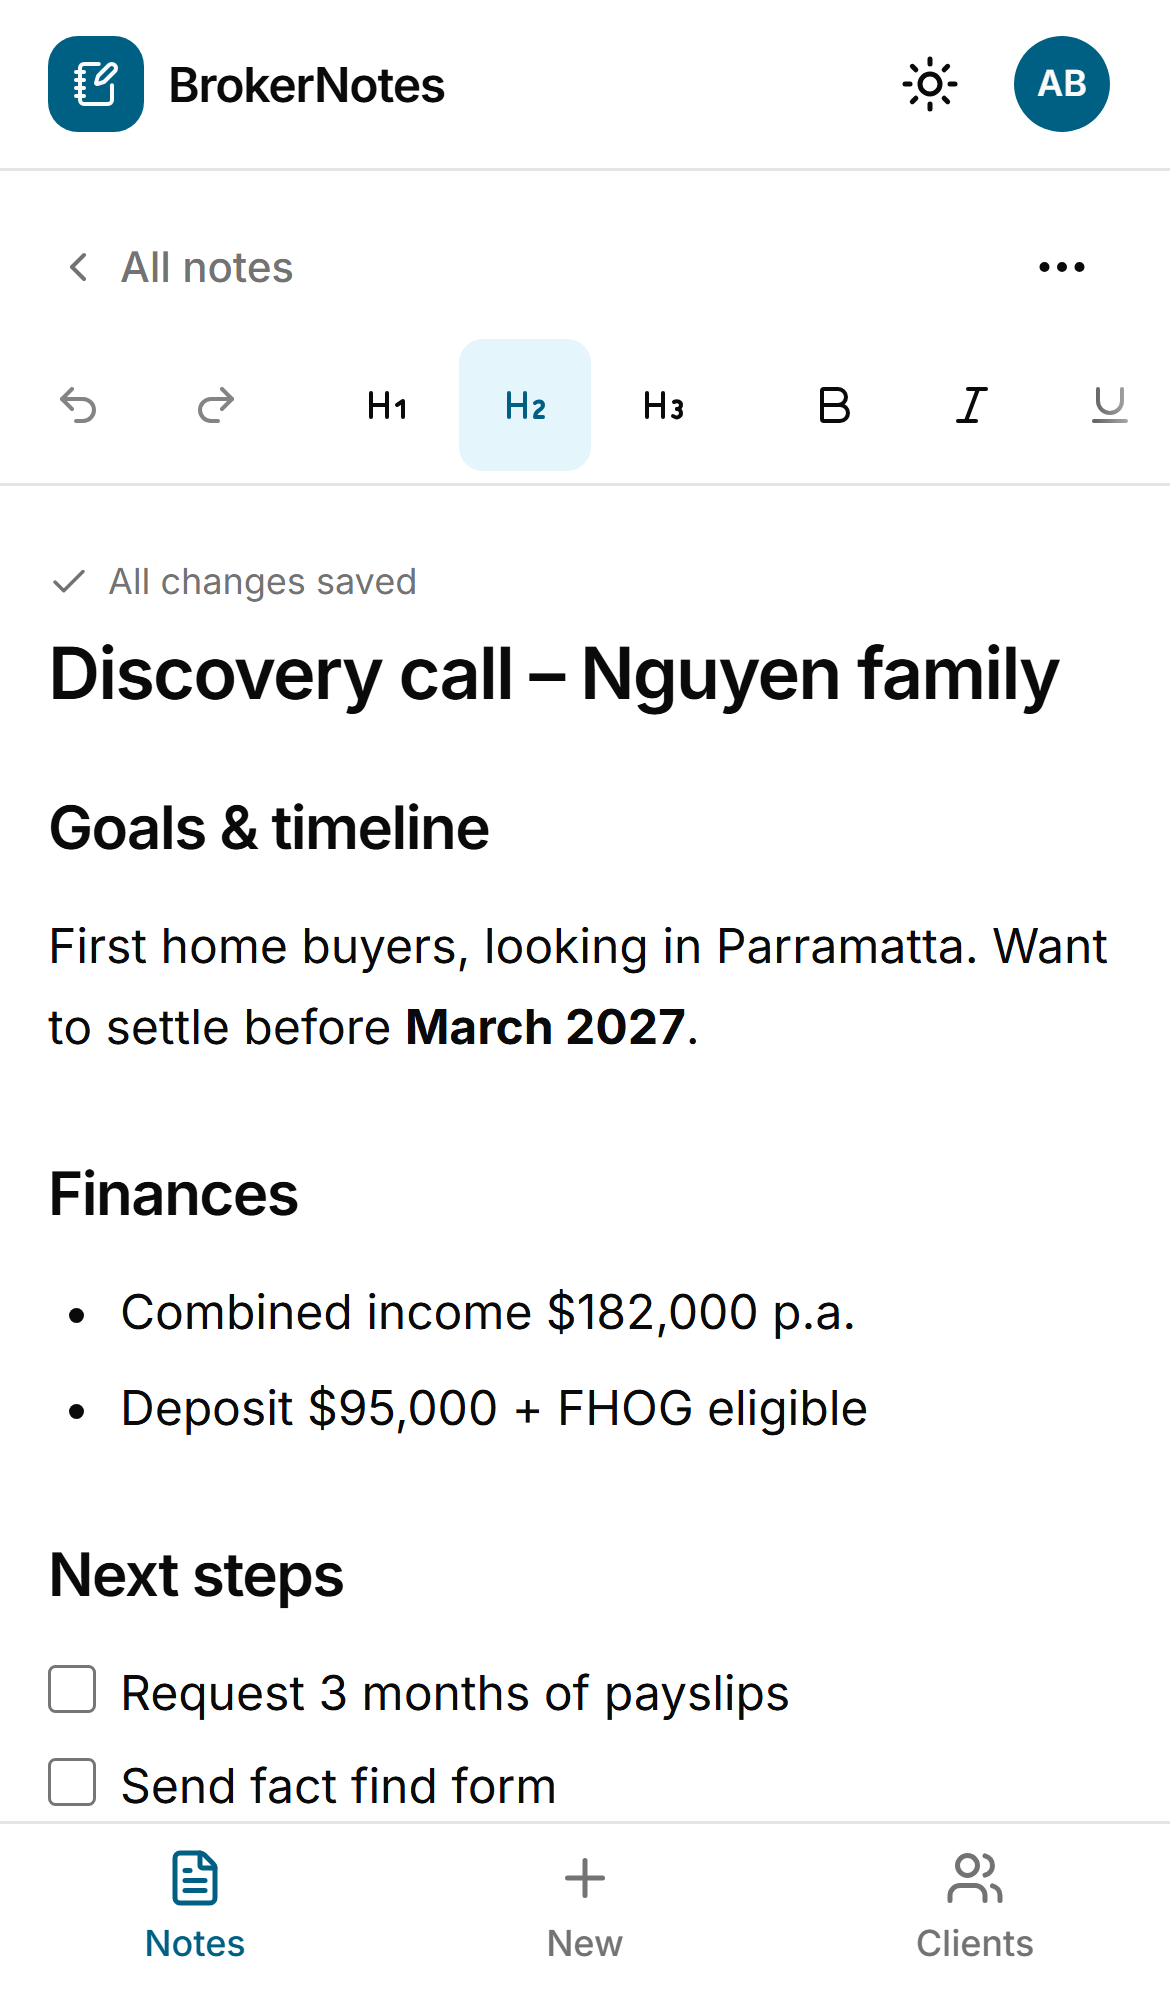
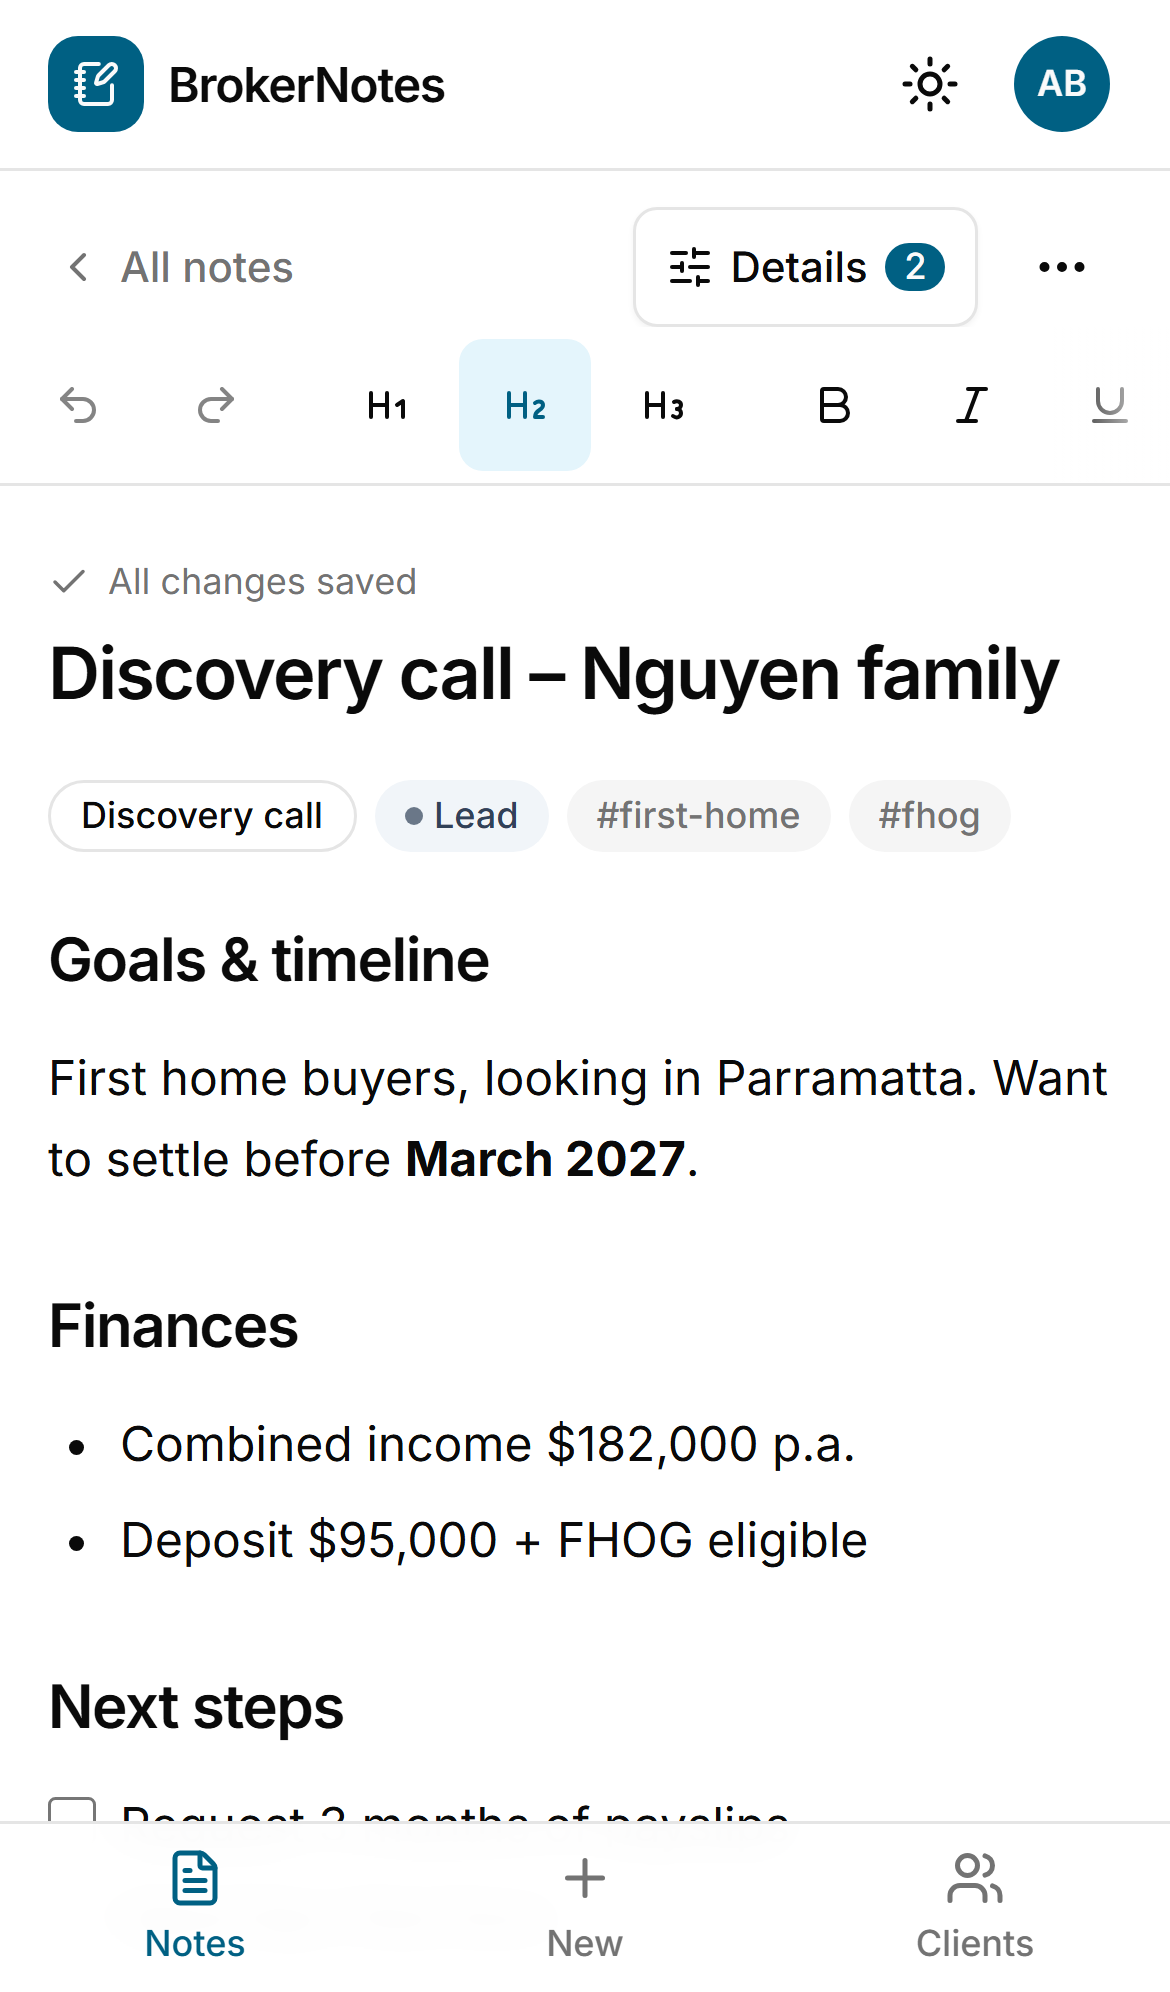
docs: Phase 3 screenshots (seeded demo pipeline) and scratchpad update

diff --git a/scripts/screenshots.ts b/scripts/screenshots.ts
@@ -4,7 +4,9 @@
  * Creates a throwaway demo account (removed at the end).
  */
 import { chromium, devices, type Page } from "@playwright/test";
-import { PrismaClient } from "@prisma/client";
+import { PrismaClient, type LoanStage, type NoteType } from "@prisma/client";
+
+import { zonedMidnight, zonedYmd } from "../lib/dates";
 
 const BASE = process.env.BASE_URL ?? "http://localhost:3100";
 const OUT = process.argv[2] ?? "docs/screenshots";
@@ -42,6 +44,83 @@ async function fillDemoNote(page: Page) {
     .waitFor({ timeout: 20_000 });
 }
 
+/** Realistic demo notes with details, so list/filter screenshots look like a real pipeline. */
+async function seedDemoNotes(email: string) {
+  const db = new PrismaClient();
+  const user = await db.user.findUniqueOrThrow({ where: { email } });
+  const today = zonedYmd(new Date());
+  const day = (offset: number) => zonedMidnight({ ...today, day: today.day + offset });
+  const notes: {
+    title: string;
+    text: string;
+    type: NoteType;
+    stage: LoanStage | null;
+    tags: string[];
+    followUp?: Date;
+    pinned?: boolean;
+  }[] = [
+    {
+      title: "Patel – conditions tracker",
+      text: "Valuation ordered with ANZ. Outstanding: payslips, rental ledger, signed contract of sale.",
+      type: "CONDITIONS",
+      stage: "CONDITIONAL",
+      tags: ["anz", "investor"],
+      followUp: day(0),
+      pinned: true,
+    },
+    {
+      title: "Smith – refinance review",
+      text: "Current Westpac rate 6.49%. Comparing CBA offset package and Macquarie basic variable.",
+      type: "REVIEW",
+      stage: "REVIEW",
+      tags: ["refinance"],
+      followUp: day(-2),
+    },
+    {
+      title: "Chen – lender rationale",
+      text: "Recommended NAB: lowest comparison rate for 85% LVR without LMI waiver alternatives.",
+      type: "LENDER_RATIONALE",
+      stage: "APPLICATION",
+      tags: ["best-interests"],
+      followUp: day(5),
+    },
+    {
+      title: "O’Brien – settlement",
+      text: "Settled 14 Nov. Client briefed on repayments and offset account. Annual review booked.",
+      type: "SETTLEMENT",
+      stage: "SETTLED",
+      tags: ["first-home"],
+    },
+    {
+      title: "Kaur – fact find",
+      text: "Two applicants, PAYG and sole trader. HECS debts, one car loan. Target purchase $1.1m.",
+      type: "FACT_FIND",
+      stage: "PRE_APPROVAL",
+      tags: ["self-employed"],
+    },
+  ];
+  for (const [i, n] of notes.entries()) {
+    await db.note.create({
+      data: {
+        userId: user.id,
+        title: n.title,
+        contentText: n.text,
+        contentJson: {
+          type: "doc",
+          content: [{ type: "paragraph", content: [{ type: "text", text: n.text }] }],
+        },
+        noteType: n.type,
+        loanStage: n.stage,
+        tags: n.tags,
+        followUpAt: n.followUp ?? null,
+        pinned: n.pinned ?? false,
+        updatedAt: new Date(Date.now() - (i + 1) * 3_600_000),
+      },
+    });
+  }
+  await db.$disconnect();
+}
+
 async function main() {
   const browser = await chromium.launch();
   const ctx = await browser.newContext({
@@ -69,12 +148,28 @@ async function main() {
   await page.screenshot({ path: `${OUT}/editor-desktop.png` });
   const noteUrl = page.url();
 
+  // Phase 3: details panel on the demo note
+  await page.getByRole("button", { name: /^Details/ }).click();
+  await page.getByRole("dialog").getByLabel("Note type").click();
+  await page.getByRole("option", { name: "Discovery call", exact: true }).click();
+  await page.getByRole("dialog").getByLabel("Loan stage").click();
+  await page.getByRole("option", { name: "Lead", exact: true }).click();
+  await page.getByRole("dialog").getByLabel(/^Tags/).fill("first-home, fhog");
+  await page.getByRole("dialog").getByLabel(/^Tags/).press("Enter");
+  await page.getByRole("dialog").getByText("Saved").waitFor();
+  await page.screenshot({ path: `${OUT}/details-panel-desktop.png` });
+  await page.keyboard.press("Escape");
+
+  await seedDemoNotes(EMAIL);
   await page.goto(`${BASE}/notes`);
   await page
     .getByRole("link", { name: /^Open note:/ })
     .first()
     .waitFor();
   await page.screenshot({ path: `${OUT}/notes-list-desktop.png` });
+  await page.goto(`${BASE}/notes?q=offset`);
+  await page.locator("mark").first().waitFor();
+  await page.screenshot({ path: `${OUT}/notes-search-desktop.png` });
 
   // Mobile, same session
   const storage = await ctx.storageState();
@@ -90,6 +185,11 @@ async function main() {
     .first()
     .waitFor();
   await mp.screenshot({ path: `${OUT}/notes-list-mobile.png` });
+  await mp.getByRole("button", { name: /^Filters/ }).click();
+  await mp.getByRole("dialog").waitFor();
+  await mp.waitForTimeout(400); // let the sheet finish sliding in
+  await mp.screenshot({ path: `${OUT}/notes-filters-mobile.png` });
+  await mp.keyboard.press("Escape");
   await mp.goto(noteUrl);
   await mp.getByRole("textbox", { name: "Note body" }).waitFor();
   await mp.screenshot({ path: `${OUT}/editor-mobile.png` });

diff --git a/SCRATCHPAD.md b/SCRATCHPAD.md
@@ -23,7 +23,7 @@ The working log for the build. It's updated in every PR and records progress, de
   - [x] Middleware guards `/notes` and `/clients`; `getCurrentUser()` / `requireUser()` helpers
   - [x] User menu with sign-out; bottom nav only shown when signed in
   - [x] 41 unit tests (80% coverage on `lib/`), plus a manual end-to-end check against Neon
-- [ ] **Phase 2: Notes core with Tiptap** (`phase-2/notes-editor`, tracking issue #4)
+- [x] **Phase 2: Notes core with Tiptap** (`phase-2/notes-editor`, PR #23, merged)
   - [x] `Note` and `NoteVersion` models and migration (`add_notes`). Soft delete; indexed by owner and updated date.
   - [x] Notes data layer: every query is scoped by `userId`, and ids are validated as cuids
   - [x] Server actions: create, autosave (validated with Zod and size-capped), soft delete
@@ -33,7 +33,16 @@ The working log for the build. It's updated in every PR and records progress, de
   - [x] Version snapshots, throttled to at most 1 per 5 minutes while editing
   - [x] Notes list: cards with snippets and relative AU dates, empty state, skeletons, delete with confirmation
   - [x] 74 unit tests, plus 8 Playwright E2E tests (desktop and mobile), plus an E2E job in CI
-- [ ] Phase 3: Notes list, search and filters
+- [ ] **Phase 3: Notes list, search and filters** (`phase-3/search-filters`, tracking issue #5)
+  - [x] Note details schema: `noteType`, `loanStage`, `tags[]`, `followUpAt`, `pinned` (migration `note_metadata`)
+  - [x] Search across title and body (case-insensitive), with the match highlighted in the title and in a snippet centred on it
+  - [x] Filters for loan stage, note type and tag; sorting by last edited, created, follow-up or title; pinned notes always first
+  - [x] "Follow-ups due" quick filter with a count (today plus overdue, by the Sydney calendar)
+  - [x] All filter state lives in the URL, so views can be bookmarked or shared and survive a reload; bad params are ignored
+  - [x] Mobile: search plus a Filters bottom sheet with an active-filter count, and the due chip one tap away
+  - [x] Note **Details panel** (right sheet on desktop, bottom sheet on mobile): type, stage, follow-up date, tags with suggestions, pin. Changes apply instantly and save one by one.
+  - [x] Card badges: colour-coded stage, type, tags, follow-up (overdue in red, today in amber); pin/unpin from the card menu
+  - [x] 107 unit tests (including daylight-saving edge cases) and 14 E2E tests (desktop and mobile)
 - [ ] Phase 4: Broker features, plus CSV import and export
 - [ ] Phase 5: AI via OpenRouter
 - [ ] Phase 6: Polish, README and deploy
@@ -66,6 +75,12 @@ The working log for the build. It's updated in every PR and records progress, de
 | 2026-11-28 | Send a plain JSON copy of the doc (`toPlainDoc`) to the server action                                     | ProseMirror uses null-prototype `attrs`, which React's server-action serializer sends as unreadable "temporary references". Formatted notes failed to save until this was fixed (found by E2E).                  |
 | 2026-11-28 | Playwright E2E on desktop and **mobile (Pixel 7)**, against real Postgres in CI                           | Proves the core flow and cross-user isolation on both form factors. Browsers live on D: locally because C: is short on space.                                                                                    |
 | 2026-11-28 | Keep shadcn's official `cn` package                                                                       | I briefly removed it, mistaking it for an unrelated package. It's published by shadcn (`shadcn-ui/cn`), so it was restored, and components import it through `@/lib/utils` so there's one place to change it.    |
+| 2026-11-28 | Note details added in Phase 3 (not Phase 4)                                                               | Filtering by stage, type, tags and follow-ups needs those fields to exist. Phase 4 extends the same panel with clients, key figures, finalise and history.                                                       |
+| 2026-11-28 | Filter state in the **URL**, parsed leniently with Zod                                                    | Shareable and bookmarkable, works with back/forward and reloads. Hand-edited or garbage params are ignored instead of causing errors.                                                                            |
+| 2026-11-28 | Follow-ups stored as **local midnight in Australia/Sydney**                                               | A follow-up is a calendar day, not an instant. Computing "due today" and "overdue" in the broker's time zone (with daylight saving) avoids off-by-one-day bugs from UTC servers.                                 |
+| 2026-11-28 | Client-side taxonomy lists, with a compile-time check against the Prisma enums                            | Client components get labels without bundling Prisma, and `tsc` fails if the lists drift from the enums.                                                                                                         |
+| 2026-11-28 | Search uses `ILIKE` (Prisma `contains`, insensitive) for now                                              | Plenty fast for a broker's notes (hundreds per user). Full-text search or `pg_trgm` is a later optimisation if needed.                                                                                           |
+| 2026-11-28 | Details save instantly and optimistically, with rollback on error                                         | No separate "Save" step for small fields. Server actions run in order, so rapid changes can't arrive out of order.                                                                                               |
 | 2026-11-28 | `next build` without `--turbopack`                                                                        | The webpack production build is the more proven option for deployment.                                                                                                                                           |
 
 ---
@@ -97,3 +112,5 @@ The app is built with Claude Code (Claude Opus 5.5) as a pair programmer. The hu
 | 1        | "Show Phase 0 and Phase 1 explicitly on GitHub"                                                          | Created a milestone, tracking issue and `phase-N` label for each phase. The labeler applies phase labels from the branch name automatically.                                                                                                                                                             |
 | 1        | Build Phase 1 (auth)                                                                                     | Implemented Auth.js v5 credentials auth and wrote 41 unit tests. Then ran the real forms end to end against Neon, which found and fixed the absolute-callbackUrl redirect bug.                                                                                                                           |
 | 2        | Build Phase 2 (Tiptap editor)                                                                            | Built the editor, autosave, versioning, list and delete. Wrote unit tests and Playwright E2E tests, captured screenshots, and **reviewed them visually**. That review found and fixed 2 real bugs (formatted notes failing to save; steady typing never autosaving) and added regression tests for both. |
+| 3        | "Merged it, update main and start Phase 3. Lots of PRs were raised, can we clear them?"                  | Triaged 12 Dependabot PRs: closed 4 majors with ignore rules, combined 7 Actions updates into one PR (#24), and configured Dependabot to skip npm majors and group Actions updates.                                                                                                                      |
+| 3        | Build Phase 3 (search and filters)                                                                       | Built search, filters, the follow-ups view, the Details panel and pinning. Tested with unit tests (daylight-saving edge cases) and E2E on mobile and desktop. Reviewed screenshots and fixed polish issues (duplicate date icon, headings running into snippets, redundant mobile button).               |
